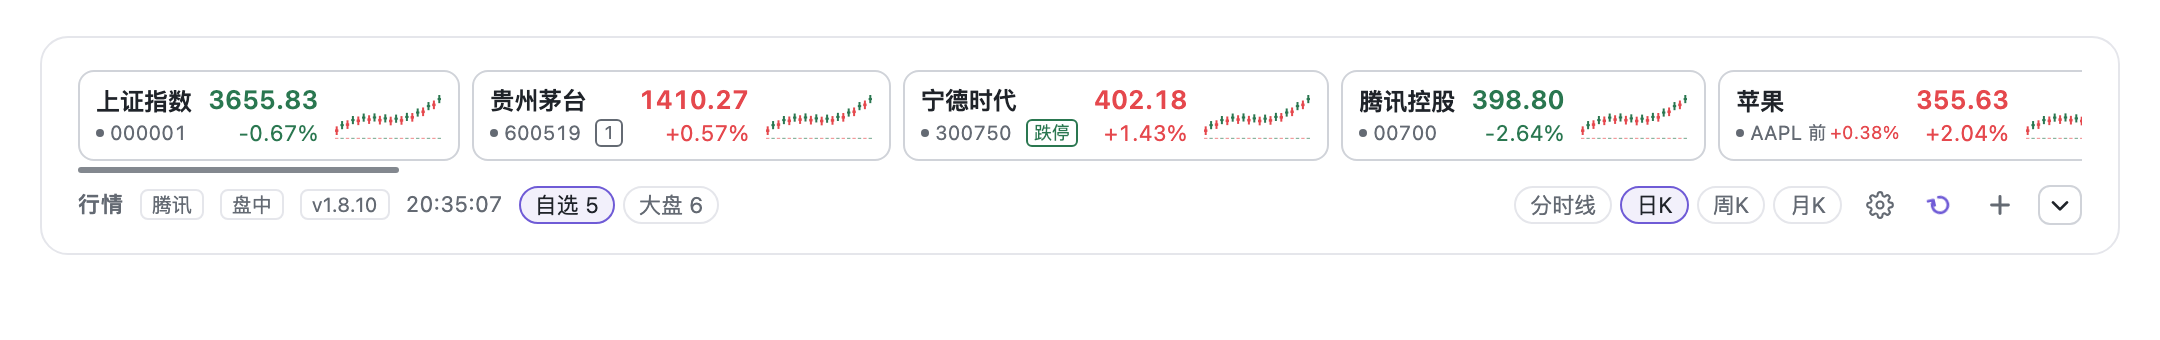
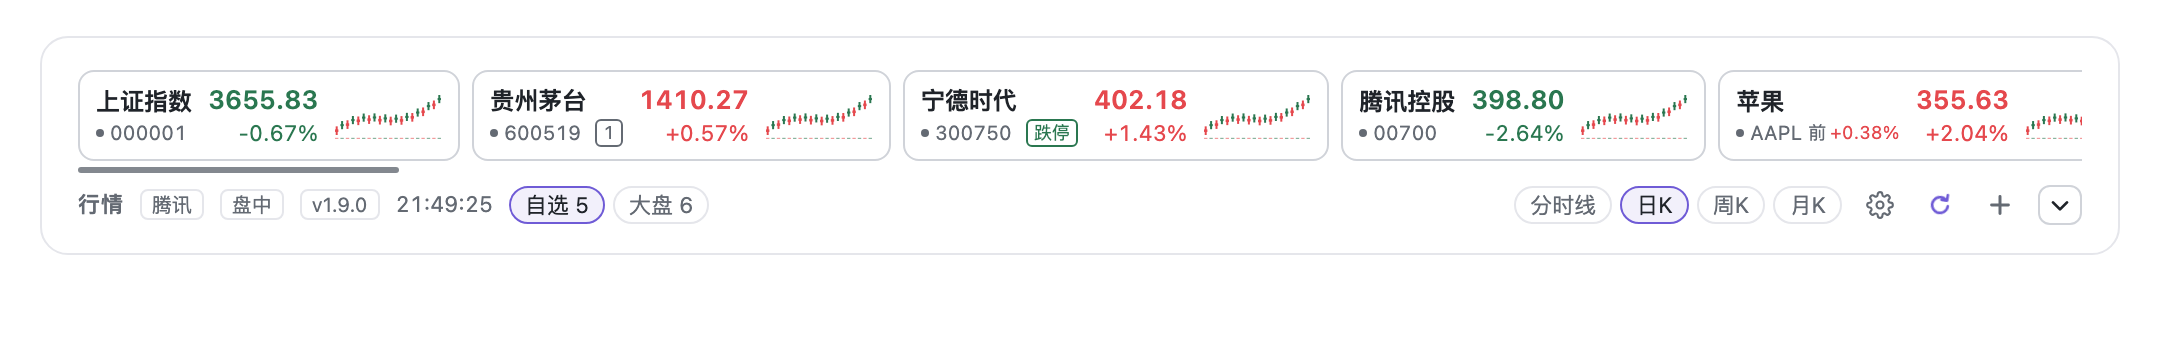
feat(charts): compare minute K volume with the previous session (1.9.0)
For the 5/15/30/60-minute K charts, each volume bar now uses the same HH:MM on
the previous trading day as its baseline: orange above, grey below, a dashed
prior-session line in the volume band, and a hover readout such as
`量 ... · 放量 1.20× · 昨 ...`. A one-line legend explains the colours.

The baseline is computed client-side from the rows already returned by
`/kline` (minute timestamps are YYYYMMDDHHMM), so there is no new route, no
larger fetch and no persistence. Day/week/month K keep the ordinary volume
colouring as requested.

- Tests: baseline mapping, dashed line and hover verdict for minute K. 82 tests.

Local commit only; not pushed.

Changed region(s): [[0.1551, 0.5588, 0.3412, 0.6471]]

diff --git a/client.js b/client.js
@@ -16,7 +16,7 @@ window.__ModuleLoader__.load({
     const { useCallback, useEffect, useMemo, useRef, useState } = React
 
     const NS = 'stockTicker'
-    const BUILD = 'v1.8.10'
+    const BUILD = 'v1.9.0'
     const ENDPOINT = '/dsh-stock-ticker'
     const COLLAPSE_KEY = 'dsh-stock-ticker:collapsed'
     const STYLE_ID = 'stock-ticker'
@@ -77,6 +77,7 @@ window.__ModuleLoader__.load({
       volumeFlat: '平量',
       volumeBaseline: '前{n}日均量',
       volumeBaselinePrev: '昨日同期量',
+      volumeKlineHint: '橙=放量 · 灰=缩量 · 虚线=上一交易日同期',
       volumePrev: '昨',
       amplitude: '振幅',
       marketCap: '市值',
@@ -240,6 +241,7 @@ window.__ModuleLoader__.load({
       volumeFlat: 'Steady',
       volumeBaseline: 'prior {n}-day avg',
       volumeBaselinePrev: 'prev session',
+      volumeKlineHint: 'orange = expanding · grey = shrinking · dashed = previous session',
       volumePrev: 'prev',
       amplitude: 'Range',
       marketCap: 'Cap',
@@ -1310,6 +1312,37 @@ window.__ModuleLoader__.load({
     ]
 
     /**
+     * Minute K rows spell their timestamp as YYYYMMDDHHMM. For each row, find
+     * the same HHMM on the previous trading day present in this page, which is
+     * the baseline the volume comparison uses.
+     */
+    function minuteVolumeBaseline(rows) {
+      const days = []
+      const slots = new Map()
+      for (const row of rows) {
+        const date = String(row.date ?? '')
+        if (!/^\d{12}$/.test(date)) continue
+        const day = date.slice(0, 8)
+        if (!slots.has(day)) {
+          slots.set(day, new Map())
+          days.push(day)
+        }
+        if (typeof row.volume === 'number') slots.get(day).set(date.slice(8), row.volume)
+      }
+      const baseline = new Map()
+      for (let index = 1; index < days.length; index += 1) {
+        const previous = slots.get(days[index - 1])
+        for (const row of rows) {
+          const date = String(row.date ?? '')
+          if (!date.startsWith(days[index])) continue
+          const value = previous.get(date.slice(8))
+          if (typeof value === 'number') baseline.set(date, value)
+        }
+      }
+      return baseline
+    }
+
+    /**
      * Candles with optional moving averages, an optional volume band and a hover
      * readout. The mini version on the strip draws bodies only.
      */
@@ -1321,6 +1354,8 @@ window.__ModuleLoader__.load({
       const showMA = block && props.showMA !== false
       const showVolume = block && props.showVolume !== false
       const t = props.t ?? ((key) => key)
+      const minutePeriod = props.period === 'm5' || props.period === 'm15' || props.period === 'm30' || props.period === 'm60'
+      const volumeBaseline = minutePeriod && showVolume ? minuteVolumeBaseline(rows) : new Map()
       const [hover, setHover] = useState(null)
       const chartStyle = block ? { width: '100%', height: `${height}px` } : { width: `${width}px`, height: `${height}px` }
       const empty = (extra) =>
@@ -1355,6 +1390,9 @@ window.__ModuleLoader__.load({
       let maxVolume = 0
       for (const row of rows) {
         if (typeof row.volume === 'number' && row.volume > maxVolume) maxVolume = row.volume
+      }
+      for (const value of volumeBaseline.values()) {
+        if (value > maxVolume) maxVolume = value
       }
 
       const children = []
@@ -1408,6 +1446,8 @@ window.__ModuleLoader__.load({
         )
         if (maxVolume > 0 && typeof row.volume === 'number') {
           const barHeight = Math.max(0.6, (row.volume / maxVolume) * (volumeBand - 3))
+          const baseline = volumeBaseline.get(String(row.date))
+          const above = typeof baseline === 'number' && baseline > 0 ? row.volume > baseline : null
           children.push(
             h('rect', {
               key: `v${index}`,
@@ -1415,11 +1455,42 @@ window.__ModuleLoader__.load({
               y: height - barHeight,
               width: bodyWidth,
               height: barHeight,
-              style: { fill: color, fillOpacity: 0.55 },
+              style: {
+                fill: above === null ? color : above ? 'var(--dsw-alias-state-warn-primary)' : 'var(--dsw-alias-label-secondary)',
+                fillOpacity: above === null ? 0.55 : above ? 0.9 : 0.3,
+              },
             }),
           )
         }
       })
+
+      if (volumeBaseline.size > 0 && maxVolume > 0) {
+        let path = ''
+        let drawing = false
+        rows.forEach((row, index) => {
+          const baseline = volumeBaseline.get(String(row.date))
+          if (typeof baseline !== 'number' || baseline <= 0) {
+            drawing = false
+            return
+          }
+          const x = step * (index + 0.5)
+          const y = height - (baseline / maxVolume) * (volumeBand - 3)
+          path += `${drawing ? 'L' : 'M'}${x.toFixed(1)},${y.toFixed(1)} `
+          drawing = true
+        })
+        if (path !== '') {
+          children.push(
+            h('path', {
+              key: 'vbaseline',
+              d: path.trim(),
+              fill: 'none',
+              style: { stroke: 'var(--dsw-alias-label-secondary)', strokeDasharray: '2 3', strokeOpacity: 0.8 },
+              strokeWidth: 1,
+              vectorEffect: 'non-scaling-stroke',
+            }),
+          )
+        }
+      }
 
       if (showMA) {
         MA_WINDOWS.forEach((window, order) => {
@@ -1504,11 +1575,19 @@ window.__ModuleLoader__.load({
 
       if (!block) return svg
       const active = hover !== null ? rows[hover] : null
+      const activeBaseline = active ? volumeBaseline.get(String(active.date)) : undefined
+      const activeRatio =
+        active && typeof active.volume === 'number' && typeof activeBaseline === 'number' && activeBaseline > 0
+          ? active.volume / activeBaseline
+          : null
+      const activeSignal = activeRatio === null ? null : activeRatio > 1 ? 'up' : activeRatio < 1 ? 'down' : 'flat'
+      const activeLabel =
+        activeSignal === 'up' ? t('volumeExpand') : activeSignal === 'down' ? t('volumeShrink') : t('volumeFlat')
       const yLabels = [max, (max + min) / 2, min].map((value) => ({
         text: formatPrice(value),
         top: (scaleY(value) / height) * 100,
       }))
-      const readout = active
+      const readoutBase = active
         ? `${active.date} ${t('open')} ${formatPrice(active.open)} ${t('high')} ${formatPrice(active.high)} ${t('low')} ${formatPrice(
             active.low,
           )} ${t('close')} ${formatPrice(active.close)}${typeof active.volume === 'number' ? ` ${t('volume')} ${shortNumber(active.volume)}` : ''}`
@@ -1517,7 +1596,21 @@ window.__ModuleLoader__.load({
         'div',
         { className: 'dshst-chartWrap' },
         svg,
-        readout ? h('span', { className: 'dshst-readout' }, readout) : null,
+        active
+          ? h(
+              'span',
+              { className: 'dshst-readout' },
+              readoutBase,
+              activeSignal === null
+                ? null
+                : h(
+                    'span',
+                    { className: 'dshst-volumeSignal', 'data-trend': activeSignal },
+                    ` · ${activeLabel} ${activeRatio.toFixed(2)}×`,
+                  ),
+              activeSignal === null ? null : ` · ${t('volumePrev')} ${shortNumber(activeBaseline)}`,
+            )
+          : null,
         h(
           'div',
           { className: 'dshst-axisY' },
@@ -1531,6 +1624,9 @@ window.__ModuleLoader__.load({
           h('span', null, rows[0]?.date ?? ''),
           h('span', null, rows[rows.length - 1]?.date ?? ''),
         ),
+        minutePeriod && volumeBaseline.size > 0
+          ? h('div', { className: 'dshst-chartNote' }, h('span', null, t('volumeKlineHint')))
+          : null,
       )
     }
 
@@ -2411,6 +2507,7 @@ window.__ModuleLoader__.load({
           height: 128,
           block: true,
           grid: true,
+          period: tab,
           showMA,
           showVolume,
           holdingCost: holding?.cost,

diff --git a/README.en.md b/README.en.md
@@ -2,7 +2,7 @@
 
 [中文](README.md) · **English**
 
-![version](https://img.shields.io/badge/version-1.8.10-blue)
+![version](https://img.shields.io/badge/version-1.9.0-blue)
 ![license](https://img.shields.io/badge/license-MIT-green)
 ![dsh](https://img.shields.io/badge/DSH-0.2.x-6f5bd6)
 ![data](https://img.shields.io/badge/data-Tencent%20%7C%20Sina%20%7C%20Eastmoney-orange)
@@ -25,7 +25,7 @@ A quote strip pinned under the DeepSeek Harness composer for A-shares, Hong Kong
 - **Card management**: a hover `×` removes one symbol, cards can be dragged into a new order, the trailing `＋` opens search
 - **Search**: code, Chinese name or pinyin, merged from Eastmoney suggest and Tencent smartbox
 - **Watchlist groups**: several lists switched by the header pills; a "market" group is seeded on first install (SSE, SZSE, ChiNext, STAR 50, Hang Seng, Nasdaq)
-- **Charts**: `intraday / 5m / 15m / 30m / 60m / daily / weekly / monthly`; intraday overlays 1/3/5 days with day separators, volume and a percentage axis, and the one-day view adds the previous session's same-time volume plus the same-time ratio, with orange bars for expansion and grey for contraction; K-lines switch forward/backward/raw adjust, MA and volume toggles, hover crosshair with a readout
+- **Charts**: `intraday / 5m / 15m / 30m / 60m / daily / weekly / monthly`; intraday overlays 1/3/5 days with day separators, volume and a percentage axis, and the one-day view adds the previous session's same-time volume plus the same-time ratio, with orange bars for expansion and grey for contraction; 5/15/30/60-minute volume bars compare with the same slot on the previous session (orange expanding / grey shrinking, dashed prior-session line); K-lines switch forward/backward/raw adjust, MA and volume toggles, hover crosshair with a readout
 - **Order book**: five bids and asks plus the bid/ask ratio
 - **A-share fields**: turnover, turnover rate, volume ratio, amplitude, P/E, P/B, float and total market cap
 - **US pre/post market**: opt-in; cards and the detail header show the extended-hours price, percent and timestamp (from Sina's `gb_` rows)

diff --git a/README.md b/README.md
@@ -2,7 +2,7 @@
 
 **中文** · [English](README.en.md)
 
-![version](https://img.shields.io/badge/version-1.8.10-blue)
+![version](https://img.shields.io/badge/version-1.9.0-blue)
 ![license](https://img.shields.io/badge/license-MIT-green)
 ![dsh](https://img.shields.io/badge/DSH-0.2.x-6f5bd6)
 ![data](https://img.shields.io/badge/data-Tencent%20%7C%20Sina%20%7C%20Eastmoney-orange)
@@ -25,7 +25,7 @@
 - **卡片管理**：悬停出现 `×` 单只移除，拖拽卡片调整顺序，末尾 `＋` 直接打开搜索
 - **搜索添加**：按代码、中文名或拼音搜（东财 suggest + 腾讯 smartbox 双源合并）
 - **分组自选**：多个自选表，头部胶囊切换；新装有「大盘」预置组（上证/深证/创业板/科创50/恒生/纳斯达克）
-- **详情图表**：`分时 / 5分 / 15分 / 30分 / 60分 / 日K / 周K / 月K`；分时 1/3/5 日叠加（按交易日分隔、带成交量柱与百分比轴），单日分时叠加上一交易日同期量虚线，柱色橙=放量/灰=缩量，并显示同期量比；K 线可切前/后/不复权，MA 与成交量副图可开关，鼠标划过有十字光标与读数
+- **详情图表**：`分时 / 5分 / 15分 / 30分 / 60分 / 日K / 周K / 月K`；分时 1/3/5 日叠加（按交易日分隔、带成交量柱与百分比轴），单日分时叠加上一交易日同期量虚线，柱色橙=放量/灰=缩量，并显示同期量比；5/15/30/60 分钟 K 的成交量柱按上一交易日同一时段对比（橙放量/灰缩量，虚线为昨日同期）；K 线可切前/后/不复权，MA 与成交量副图可开关，鼠标划过有十字光标与读数
 - **五档盘口**：买卖各五档（价 + 量）和委比
 - **A 股指标**：成交额、换手率、量比、振幅、市盈率、市净率、流通市值 / 总市值
 - **美股盘前 / 盘后**：可选开关，打开后卡片与详情会显示盘前/盘后价格、涨跌幅和时间（数据来自新浪 `gb_` 行）

diff --git a/CHANGELOG.md b/CHANGELOG.md
@@ -514,3 +514,15 @@ Settings discoverability and the options the strip was missing.
   fill, matching the selected pills. The collapse arrow keeps its neutral state
   because `data-toggle` scopes the fill to panel-owning buttons.
 - No behaviour changes. 81 tests.
+
+## 1.9.0 — 2026-11-13
+
+- The 5/15/30/60-minute K charts now tell the same volume story as the intraday
+  line: each volume bar is coloured against the **same HH:MM on the previous
+  trading day** (orange = heavier, grey = lighter, dashed line = prior-session
+  level), and hovering reports `量 ... · 放量/缩量 x.xx× · 昨 ...` plus a small
+  legend under the chart.
+- This is computed entirely from the rows already returned by `/kline`; no new
+  endpoint, no larger fetch and no persistence. Day/week/month K are unchanged
+  as requested: they keep the ordinary volume colouring.
+- Tests: minute-K baseline, dashed line and the hover verdict. 82 tests.
